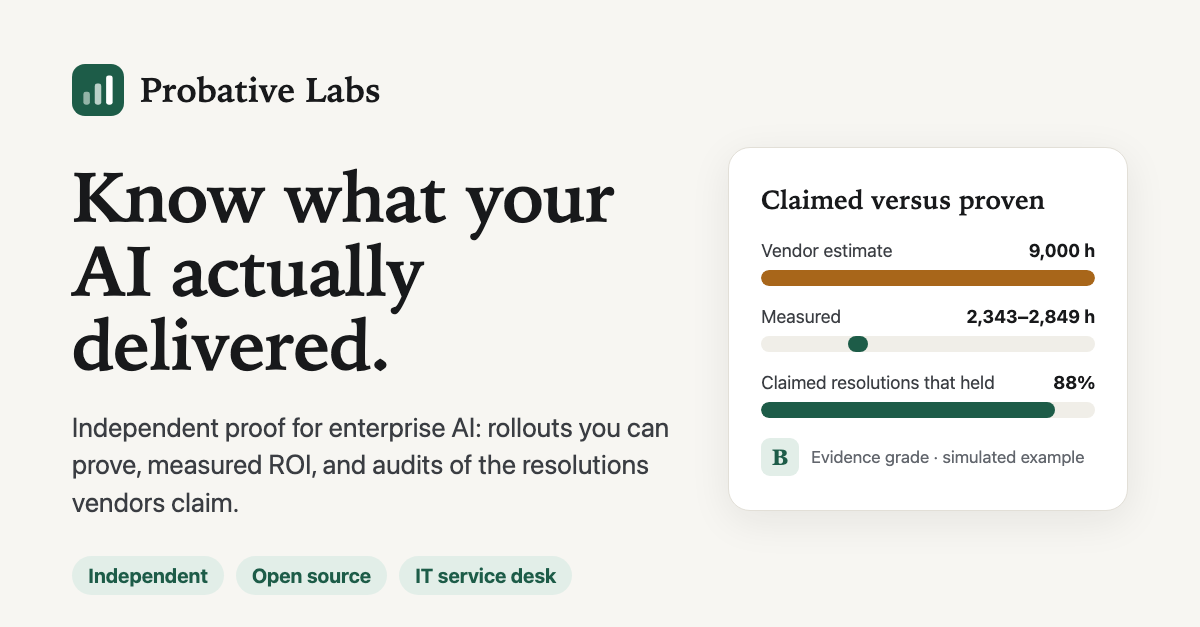
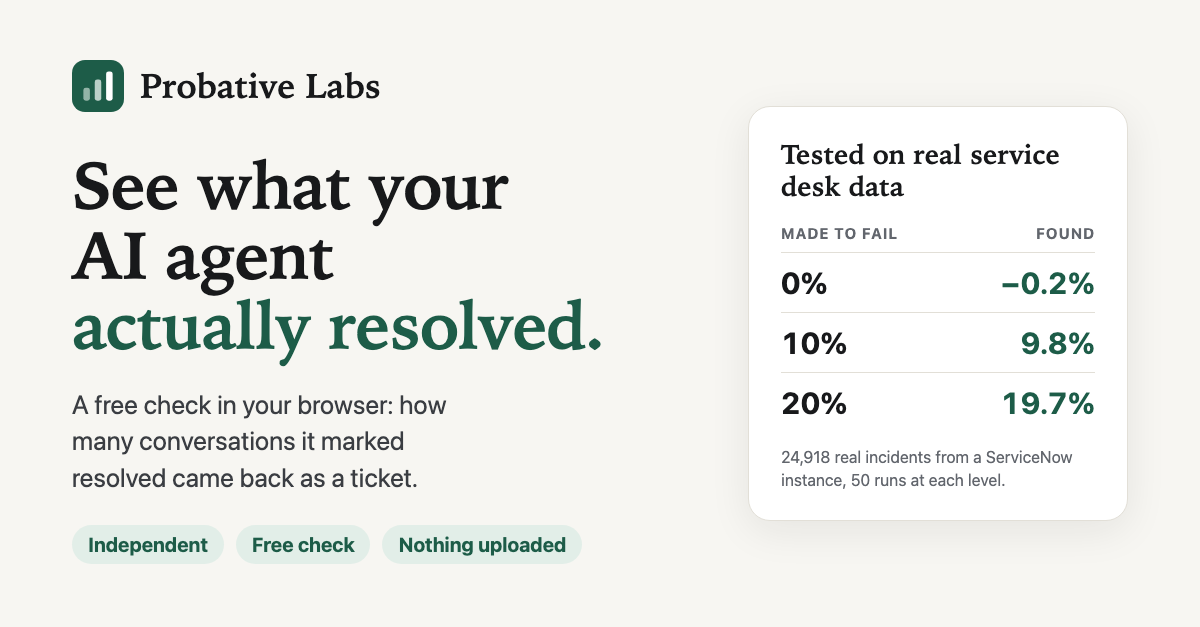
Site: new share image and home title

diff --git a/docs/index.html b/docs/index.html
@@ -3,16 +3,16 @@
 <head>
 <meta charset="utf-8">
 <meta name="viewport" content="width=device-width, initial-scale=1">
-<title>Probative Labs: independent proof of what AI delivers</title>
+<title>Probative Labs: see what your AI agent actually resolved</title>
 <meta name="description" content="See what your AI agent actually resolved: a free check that runs in your browser on your own exports, and an independent audit for your renewal. Probative Labs sells no AI and takes no money from AI vendors.">
 <meta property="og:type" content="website">
 <meta property="og:site_name" content="Probative Labs">
-<meta property="og:title" content="Probative Labs: independent proof of what AI delivers">
+<meta property="og:title" content="Probative Labs: see what your AI agent actually resolved">
 <meta property="og:description" content="See what your AI agent actually resolved: a free check that runs in your browser on your own exports, and an independent audit for your renewal. Probative Labs sells no AI and takes no money from AI vendors.">
-<meta property="og:image" content="https://probativelabs.com/static/img/og-image.png">
+<meta property="og:image" content="https://probativelabs.com/static/img/og-image.png?v=87f7cf5b66">
 <meta property="og:image:width" content="1200">
 <meta property="og:image:height" content="627">
-<meta property="og:image:alt" content="Probative Labs: independent proof of what your AI delivered.">
+<meta property="og:image:alt" content="Probative Labs: see what your AI agent actually resolved.">
 <meta property="og:url" content="https://probativelabs.com/">
 <meta name="twitter:card" content="summary_large_image">
 <link rel="icon" href="/static/img/logo.svg?v=0818421d7d" type="image/svg+xml">

diff --git a/docs/resolution-audit/index.html b/docs/resolution-audit/index.html
@@ -9,10 +9,10 @@
 <meta property="og:site_name" content="Probative Labs">
 <meta property="og:title" content="Resolution audit · Probative Labs">
 <meta property="og:description" content="Did the resolutions your AI agent claimed actually hold? Probative Labs checks each one against what happened next, compares with your agents' own resolutions, and reconciles the bill. Works even if everyone got the AI on the same day.">
-<meta property="og:image" content="https://probativelabs.com/static/img/og-image.png">
+<meta property="og:image" content="https://probativelabs.com/static/img/og-image.png?v=87f7cf5b66">
 <meta property="og:image:width" content="1200">
 <meta property="og:image:height" content="627">
-<meta property="og:image:alt" content="Probative Labs: independent proof of what your AI delivered.">
+<meta property="og:image:alt" content="Probative Labs: see what your AI agent actually resolved.">
 <meta property="og:url" content="https://probativelabs.com/resolution-audit/">
 <meta name="twitter:card" content="summary_large_image">
 <link rel="icon" href="/static/img/logo.svg?v=0818421d7d" type="image/svg+xml">

diff --git a/docs/open-source/index.html b/docs/open-source/index.html
@@ -9,10 +9,10 @@
 <meta property="og:site_name" content="Probative Labs">
 <meta property="og:title" content="Open source and Cloud · Probative Labs">
 <meta property="og:description" content="The open-source engine shows you, for free, whether your AI works. Probative Labs Cloud proves it every month: money back on the bill, proof for the renewal, an early warning when the AI slips, and answers for your CFO.">
-<meta property="og:image" content="https://probativelabs.com/static/img/og-image.png">
+<meta property="og:image" content="https://probativelabs.com/static/img/og-image.png?v=87f7cf5b66">
 <meta property="og:image:width" content="1200">
 <meta property="og:image:height" content="627">
-<meta property="og:image:alt" content="Probative Labs: independent proof of what your AI delivered.">
+<meta property="og:image:alt" content="Probative Labs: see what your AI agent actually resolved.">
 <meta property="og:url" content="https://probativelabs.com/open-source/">
 <meta name="twitter:card" content="summary_large_image">
 <link rel="icon" href="/static/img/logo.svg?v=0818421d7d" type="image/svg+xml">

diff --git a/docs/ai-billing/index.html b/docs/ai-billing/index.html
@@ -9,10 +9,10 @@
 <meta property="og:site_name" content="Probative Labs">
 <meta property="og:title" content="AI billing · Probative Labs">
 <meta property="og:description" content="Per resolution, per conversation, per session, in assists or credits, or per seat: however the AI is billed, Probative Labs checks it against what happened next and brings it to one number, what each resolution that held cost.">
-<meta property="og:image" content="https://probativelabs.com/static/img/og-image.png">
+<meta property="og:image" content="https://probativelabs.com/static/img/og-image.png?v=87f7cf5b66">
 <meta property="og:image:width" content="1200">
 <meta property="og:image:height" content="627">
-<meta property="og:image:alt" content="Probative Labs: independent proof of what your AI delivered.">
+<meta property="og:image:alt" content="Probative Labs: see what your AI agent actually resolved.">
 <meta property="og:url" content="https://probativelabs.com/ai-billing/">
 <meta name="twitter:card" content="summary_large_image">
 <link rel="icon" href="/static/img/logo.svg?v=0818421d7d" type="image/svg+xml">

diff --git a/docs/security/index.html b/docs/security/index.html
@@ -9,10 +9,10 @@
 <meta property="og:site_name" content="Probative Labs">
 <meta property="og:title" content="Security and privacy · Probative Labs">
 <meta property="og:description" content="See what your AI agent actually resolved: a free check that runs in your browser on your own exports, and an independent audit for your renewal. Probative Labs sells no AI and takes no money from AI vendors.">
-<meta property="og:image" content="https://probativelabs.com/static/img/og-image.png">
+<meta property="og:image" content="https://probativelabs.com/static/img/og-image.png?v=87f7cf5b66">
 <meta property="og:image:width" content="1200">
 <meta property="og:image:height" content="627">
-<meta property="og:image:alt" content="Probative Labs: independent proof of what your AI delivered.">
+<meta property="og:image:alt" content="Probative Labs: see what your AI agent actually resolved.">
 <meta property="og:url" content="https://probativelabs.com/security/">
 <meta name="twitter:card" content="summary_large_image">
 <link rel="icon" href="/static/img/logo.svg?v=0818421d7d" type="image/svg+xml">

diff --git a/docs/privacy/index.html b/docs/privacy/index.html
@@ -9,10 +9,10 @@
 <meta property="og:site_name" content="Probative Labs">
 <meta property="og:title" content="Privacy notice · Probative Labs">
 <meta property="og:description" content="See what your AI agent actually resolved: a free check that runs in your browser on your own exports, and an independent audit for your renewal. Probative Labs sells no AI and takes no money from AI vendors.">
-<meta property="og:image" content="https://probativelabs.com/static/img/og-image.png">
+<meta property="og:image" content="https://probativelabs.com/static/img/og-image.png?v=87f7cf5b66">
 <meta property="og:image:width" content="1200">
 <meta property="og:image:height" content="627">
-<meta property="og:image:alt" content="Probative Labs: independent proof of what your AI delivered.">
+<meta property="og:image:alt" content="Probative Labs: see what your AI agent actually resolved.">
 <meta property="og:url" content="https://probativelabs.com/privacy/">
 <meta name="twitter:card" content="summary_large_image">
 <link rel="icon" href="/static/img/logo.svg?v=0818421d7d" type="image/svg+xml">

diff --git a/docs/pilot/index.html b/docs/pilot/index.html
@@ -9,10 +9,10 @@
 <meta property="og:site_name" content="Probative Labs">
 <meta property="og:title" content="Book a call · Probative Labs">
 <meta property="og:description" content="See what your AI agent actually resolved: a free check that runs in your browser on your own exports, and an independent audit for your renewal. Probative Labs sells no AI and takes no money from AI vendors.">
-<meta property="og:image" content="https://probativelabs.com/static/img/og-image.png">
+<meta property="og:image" content="https://probativelabs.com/static/img/og-image.png?v=87f7cf5b66">
 <meta property="og:image:width" content="1200">
 <meta property="og:image:height" content="627">
-<meta property="og:image:alt" content="Probative Labs: independent proof of what your AI delivered.">
+<meta property="og:image:alt" content="Probative Labs: see what your AI agent actually resolved.">
 <meta property="og:url" content="https://probativelabs.com/pilot/">
 <meta name="twitter:card" content="summary_large_image">
 <link rel="icon" href="/static/img/logo.svg?v=0818421d7d" type="image/svg+xml">

diff --git a/docs/benchmarks/index.html b/docs/benchmarks/index.html
@@ -9,10 +9,10 @@
 <meta property="og:site_name" content="Probative Labs">
 <meta property="og:title" content="Benchmarks · Probative Labs">
 <meta property="og:description" content="Is your AI's result typical? Probative Labs benchmarks AI products across organizations from anonymous contributions: rates, ranges and size bands only, shown once five organizations contribute.">
-<meta property="og:image" content="https://probativelabs.com/static/img/og-image.png">
+<meta property="og:image" content="https://probativelabs.com/static/img/og-image.png?v=87f7cf5b66">
 <meta property="og:image:width" content="1200">
 <meta property="og:image:height" content="627">
-<meta property="og:image:alt" content="Probative Labs: independent proof of what your AI delivered.">
+<meta property="og:image:alt" content="Probative Labs: see what your AI agent actually resolved.">
 <meta property="og:url" content="https://probativelabs.com/benchmarks/">
 <meta name="twitter:card" content="summary_large_image">
 <link rel="icon" href="/static/img/logo.svg?v=0818421d7d" type="image/svg+xml">

diff --git a/docs/validation/index.html b/docs/validation/index.html
@@ -9,10 +9,10 @@
 <meta property="og:site_name" content="Probative Labs">
 <meta property="og:title" content="Validation on real ServiceNow data · Probative Labs">
 <meta property="og:description" content="The resolution audit, tested on a public log from a real ServiceNow instance: it reads the real export, shows real return rates, and finds failures planted in real data.">
-<meta property="og:image" content="https://probativelabs.com/static/img/og-image.png">
+<meta property="og:image" content="https://probativelabs.com/static/img/og-image.png?v=87f7cf5b66">
 <meta property="og:image:width" content="1200">
 <meta property="og:image:height" content="627">
-<meta property="og:image:alt" content="Probative Labs: independent proof of what your AI delivered.">
+<meta property="og:image:alt" content="Probative Labs: see what your AI agent actually resolved.">
 <meta property="og:url" content="https://probativelabs.com/validation/">
 <meta name="twitter:card" content="summary_large_image">
 <link rel="icon" href="/static/img/logo.svg?v=0818421d7d" type="image/svg+xml">

diff --git a/docs/check/index.html b/docs/check/index.html
@@ -9,10 +9,10 @@
 <meta property="og:site_name" content="Probative Labs">
 <meta property="og:title" content="Free resolution check · Probative Labs">
 <meta property="og:description" content="Drop two exports and see, in your browser, how many conversations your AI agent marked resolved came back as a ticket. Nothing is uploaded: this page cannot send data anywhere.">
-<meta property="og:image" content="https://probativelabs.com/static/img/og-image.png">
+<meta property="og:image" content="https://probativelabs.com/static/img/og-image.png?v=87f7cf5b66">
 <meta property="og:image:width" content="1200">
 <meta property="og:image:height" content="627">
-<meta property="og:image:alt" content="Probative Labs: independent proof of what your AI delivered.">
+<meta property="og:image:alt" content="Probative Labs: see what your AI agent actually resolved.">
 <meta property="og:url" content="https://probativelabs.com/check/">
 <meta name="twitter:card" content="summary_large_image">
 <link rel="icon" href="/static/img/logo.svg?v=0818421d7d" type="image/svg+xml">

diff --git a/docs/independence/index.html b/docs/independence/index.html
@@ -9,10 +9,10 @@
 <meta property="og:site_name" content="Probative Labs">
 <meta property="og:title" content="Independence · Probative Labs">
 <meta property="og:description" content="Probative Labs checks what AI vendors claim, so nobody can pay to change the answer: no AI sales, no vendor money, pricing per program, an open method and anonymous benchmarks.">
-<meta property="og:image" content="https://probativelabs.com/static/img/og-image.png">
+<meta property="og:image" content="https://probativelabs.com/static/img/og-image.png?v=87f7cf5b66">
 <meta property="og:image:width" content="1200">
 <meta property="og:image:height" content="627">
-<meta property="og:image:alt" content="Probative Labs: independent proof of what your AI delivered.">
+<meta property="og:image:alt" content="Probative Labs: see what your AI agent actually resolved.">
 <meta property="og:url" content="https://probativelabs.com/independence/">
 <meta name="twitter:card" content="summary_large_image">
 <link rel="icon" href="/static/img/logo.svg?v=0818421d7d" type="image/svg+xml">

diff --git a/docs/pricing/index.html b/docs/pricing/index.html
@@ -9,10 +9,10 @@
 <meta property="og:site_name" content="Probative Labs">
 <meta property="og:title" content="Pricing · Probative Labs">
 <meta property="og:description" content="Fixed fees for a resolution audit or a vendor bake-off, annual plans for monthly verification. Never a share of the savings found, and never money from AI vendors.">
-<meta property="og:image" content="https://probativelabs.com/static/img/og-image.png">
+<meta property="og:image" content="https://probativelabs.com/static/img/og-image.png?v=87f7cf5b66">
 <meta property="og:image:width" content="1200">
 <meta property="og:image:height" content="627">
-<meta property="og:image:alt" content="Probative Labs: independent proof of what your AI delivered.">
+<meta property="og:image:alt" content="Probative Labs: see what your AI agent actually resolved.">
 <meta property="og:url" content="https://probativelabs.com/pricing/">
 <meta name="twitter:card" content="summary_large_image">
 <link rel="icon" href="/static/img/logo.svg?v=0818421d7d" type="image/svg+xml">
